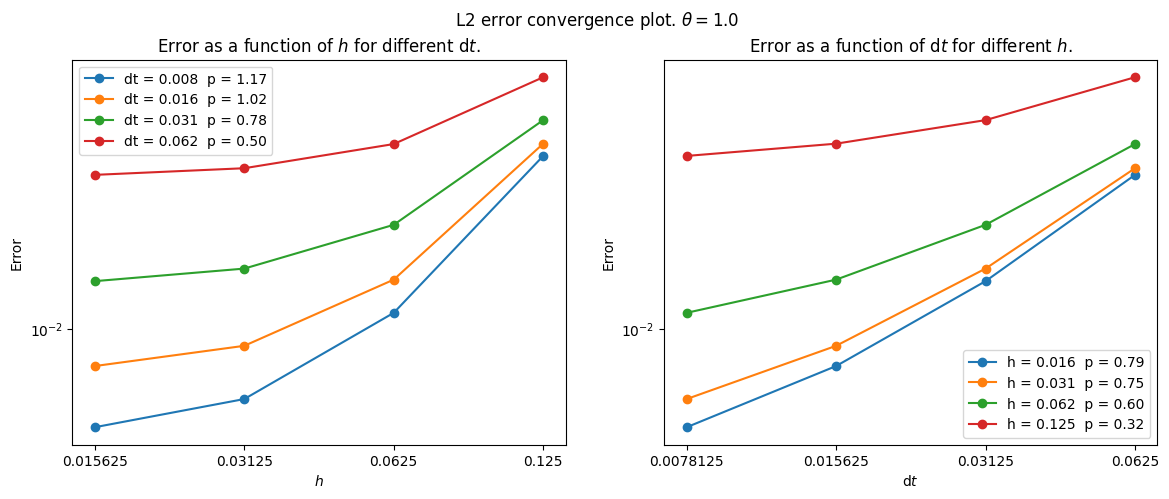
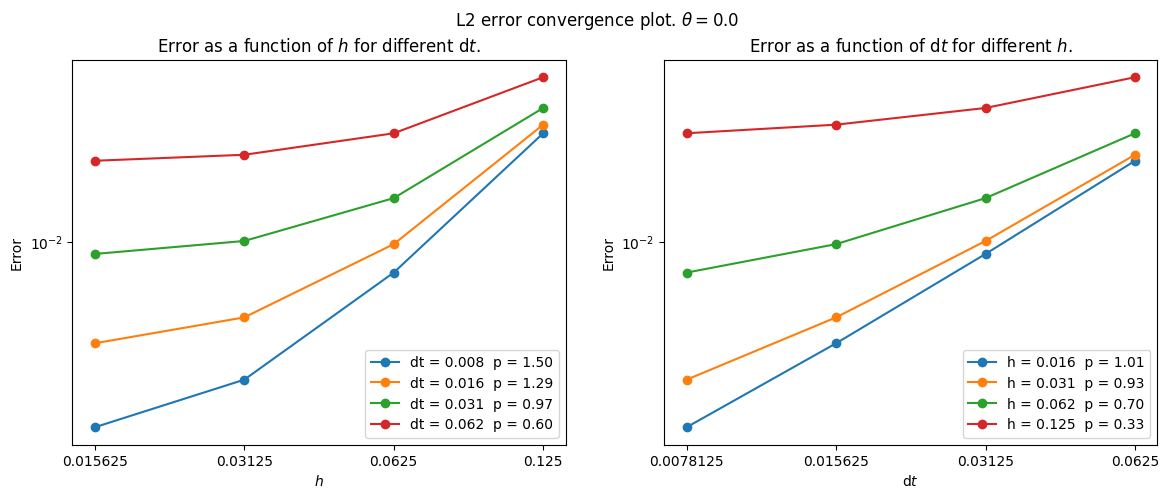
Used backward Euler for PDE variational form in mono_mixedspace

diff --git a/demos_monolithic/external_operator.py b/demos_monolithic/external_operator.py
@@ -9,14 +9,13 @@ import matplotlib.pyplot as plt
 import numpy as np
 import numpy.typing as npt
 import ufl
+from dolfinx.nls.petsc import NewtonSolver
 from dolfinx_external_operator import (
     FEMExternalOperator,
     evaluate_external_operators,
     evaluate_operands,
     replace_external_operators,
 )
-
-from dolfinx.nls.petsc import NewtonSolver
 from scifem import NewtonSolver as NewtonSolver_scifem
 
 
@@ -468,12 +467,14 @@ def error_mono_mixedspace(h, dt, theta, T, quad_degree, vtx_title=None):
 
     I_stim = 8 * ufl.pi**2 * ufl.sin(t) * ufl.cos(2 * ufl.pi * x[0]) * ufl.cos(2 * ufl.pi * x[1])
 
-    # Monodomain variational form
-    F1 = v_test * v_h * dx + dt * theta * ufl.inner(ufl.grad(v_test), ufl.grad(v_h)) * dx
-    F1 -= v_test * v_old * dx + dt * v_test * I_stim * dx
+    # Monodomain backward Euler (theta=0) variational form
+    # LHS
+    F1 = v_test * v_h * dx
+    # RHS
+    F1 -= v_test * (v_h + dt * I_stim) * dx
+    F1 += dt * ufl.dot(ufl.grad(v_test), ufl.grad(v_h)) * dx
 
-    # Backwards Euler variational form
-    # ? Where to put v_test, s_test?
+    # ODE backwards Euler variational form
     F2 = (v_h - v_old + dt * s_h) * v_test * dx
     F2 += (s_h - s_old - dt * v_h) * s_test * dx
 
@@ -562,5 +563,5 @@ dts = [1 / (2**i) for i in range(7, 3, -1)]
 #     hs, dts, theta=1.0, T=1, error_func=error_I_ion_ext, plot_title="convergence_opsplit.png"
 # )
 dual_convergence_plot(
-    hs, dts, theta=1.0, T=1, error_func=error_mono_mixedspace, plot_title="convergence_mixed.png"
+    hs, dts, theta=0.0, T=1, error_func=error_mono_mixedspace, plot_title="convergence_mixed.png"
 )

diff --git a/src/nmcemfem/monodomain.py b/src/nmcemfem/monodomain.py
@@ -1,17 +1,16 @@
 import importlib
+import logging
 from dataclasses import dataclass
 from pathlib import Path
 
 from mpi4py import MPI
 from petsc4py import PETSc
 
-import dolfinx.fem.petsc as petsc
 import basix.ufl
 import numpy as np
 import ufl
 import ufl.tensors
 from dolfinx import fem, geometry, io, mesh
-import logging
 
 from nmcemfem.utils import pprint
 
@@ -69,10 +68,14 @@ class PDESolver:
         v = ufl.TrialFunction(self.V_pde)
         phi = ufl.TestFunction(self.V_pde)
         a = phi * v * self.dx + dt * theta * ufl.dot(ufl.grad(phi), M * ufl.grad(v)) * self.dx
-        L = (
-            phi * (self.v_ode + dt * I_stim) * self.dx
-            - dt * (1 - theta) * ufl.dot(ufl.grad(phi), M * ufl.grad(self.v_ode)) * self.dx
-        )
+        if np.isclose(theta, 1.0):
+            L = phi * (self.v_ode + dt * I_stim) * self.dx
+        else:
+            L = (
+                phi * (self.v_ode + dt * I_stim) * self.dx
+                - dt * (1 - theta) * ufl.dot(ufl.grad(phi), M * ufl.grad(self.v_ode)) * self.dx
+            )
+
         self.solver = fem.petsc.LinearProblem(a, L, u=self.v_pde)
         fem.petsc.assemble_matrix(self.solver.A, self.solver.a)
         self.solver.A.assemble()
